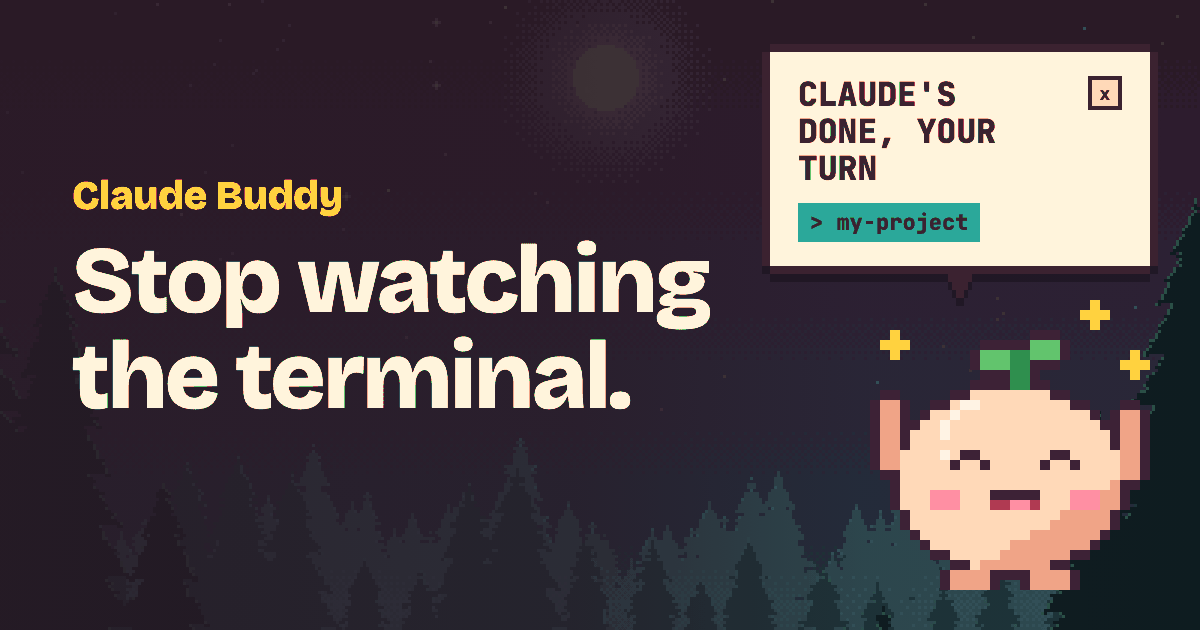
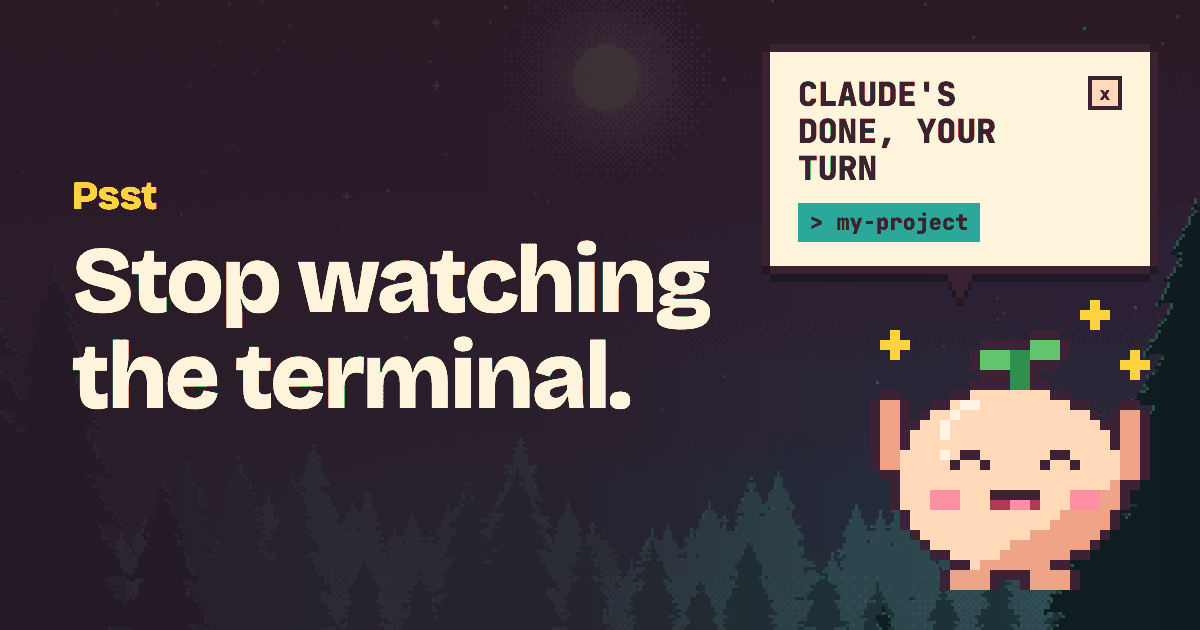
feat: rename product to Psst
Name read from siteConfig.name everywhere; name guard test now follows the config.
Regenerated share images and updated README title.

Changed region(s): [[0.0617, 0.2714, 0.3083, 0.3619]]

diff --git a/site.config.ts b/site.config.ts
@@ -1,6 +1,6 @@
 // Owner-supplied values. Replace the placeholders before launch.
 export const siteConfig = {
-  name: "Claude Buddy", // TODO(owner): final name
+  name: "Psst",
   downloadUrl: "#download", // TODO(owner): real .dmg / install link
   githubUrl: "https://github.com/ShriyanthNK/mochi-launch", // TODO(owner): point at the app repo or releases
   version: null as string | null, // TODO(owner): confirm version; null hides it in the footer

diff --git a/src/lib/brand-name.test.ts b/src/lib/brand-name.test.ts
@@ -3,7 +3,7 @@ import fs from "node:fs";
 import path from "node:path";
 
 const ROOT = path.resolve(__dirname, "..");
-const NAME = "Claude Buddy";
+const NAME = siteConfig.name;
 
 function walk(dir: string): string[] {
   return fs.readdirSync(dir, { withFileTypes: true }).flatMap((e) => {

diff --git a/README.md b/README.md
@@ -1,6 +1,6 @@
-# Claude Buddy launch page
+# Psst launch page
 
-Next.js launch page for Claude Buddy and Mochi. "Claude Buddy" is a working name; see "Product name" below.
+Next.js launch page for Psst and its mascot Mochi.
 
 ## Run
 ```bash
